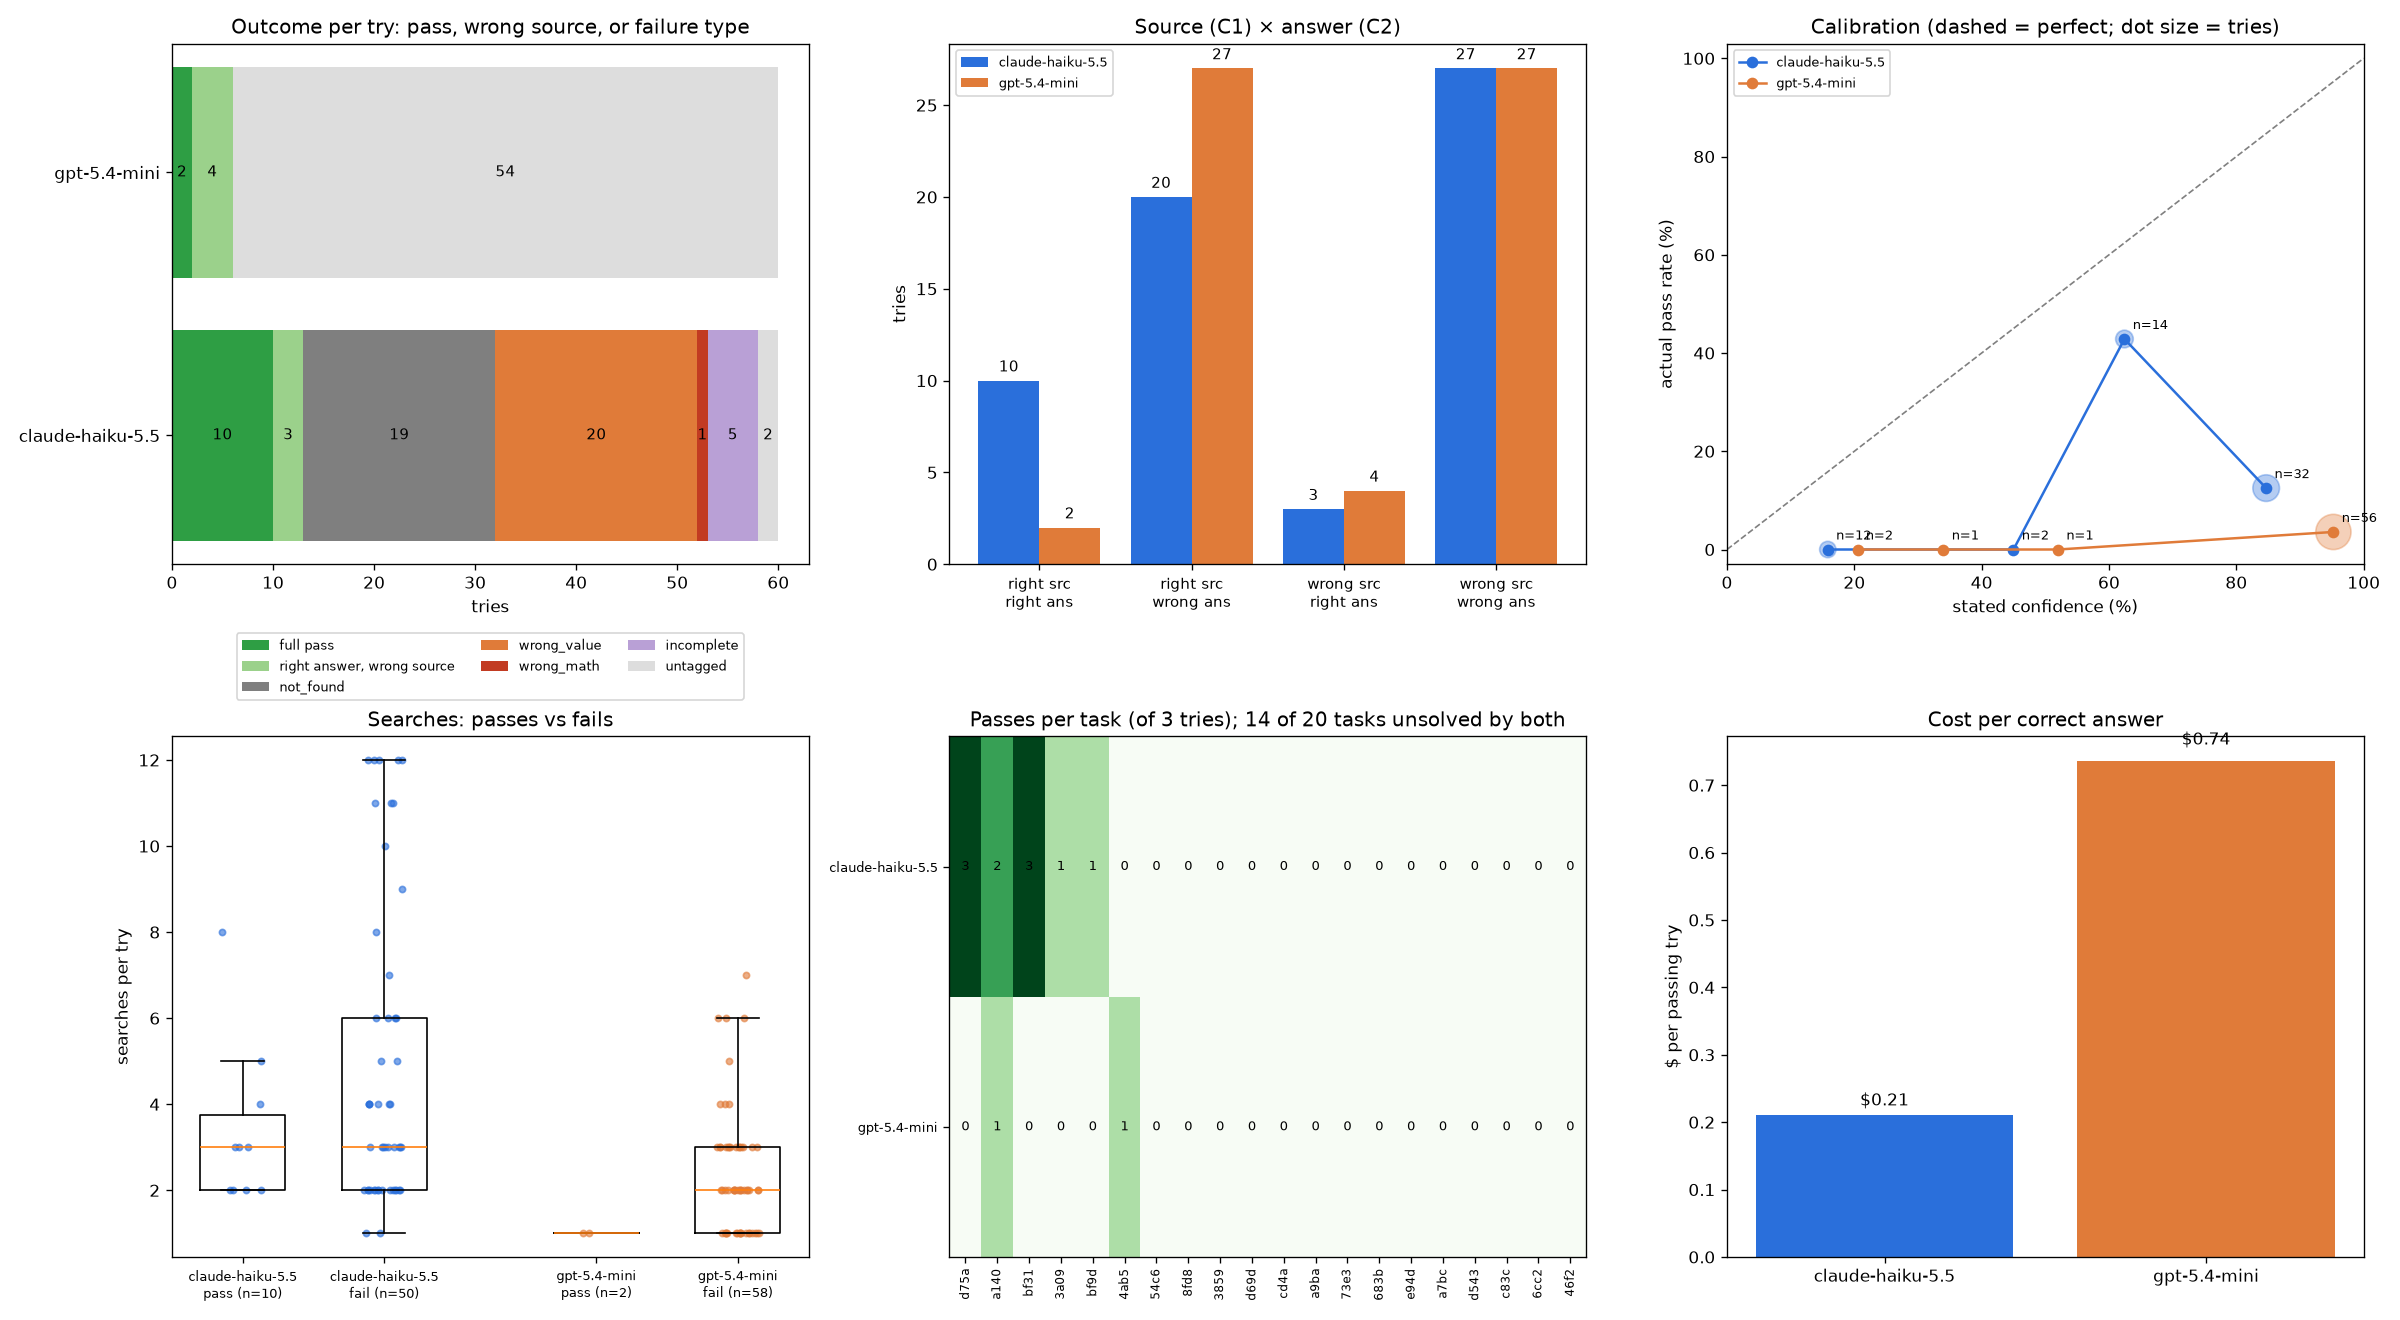
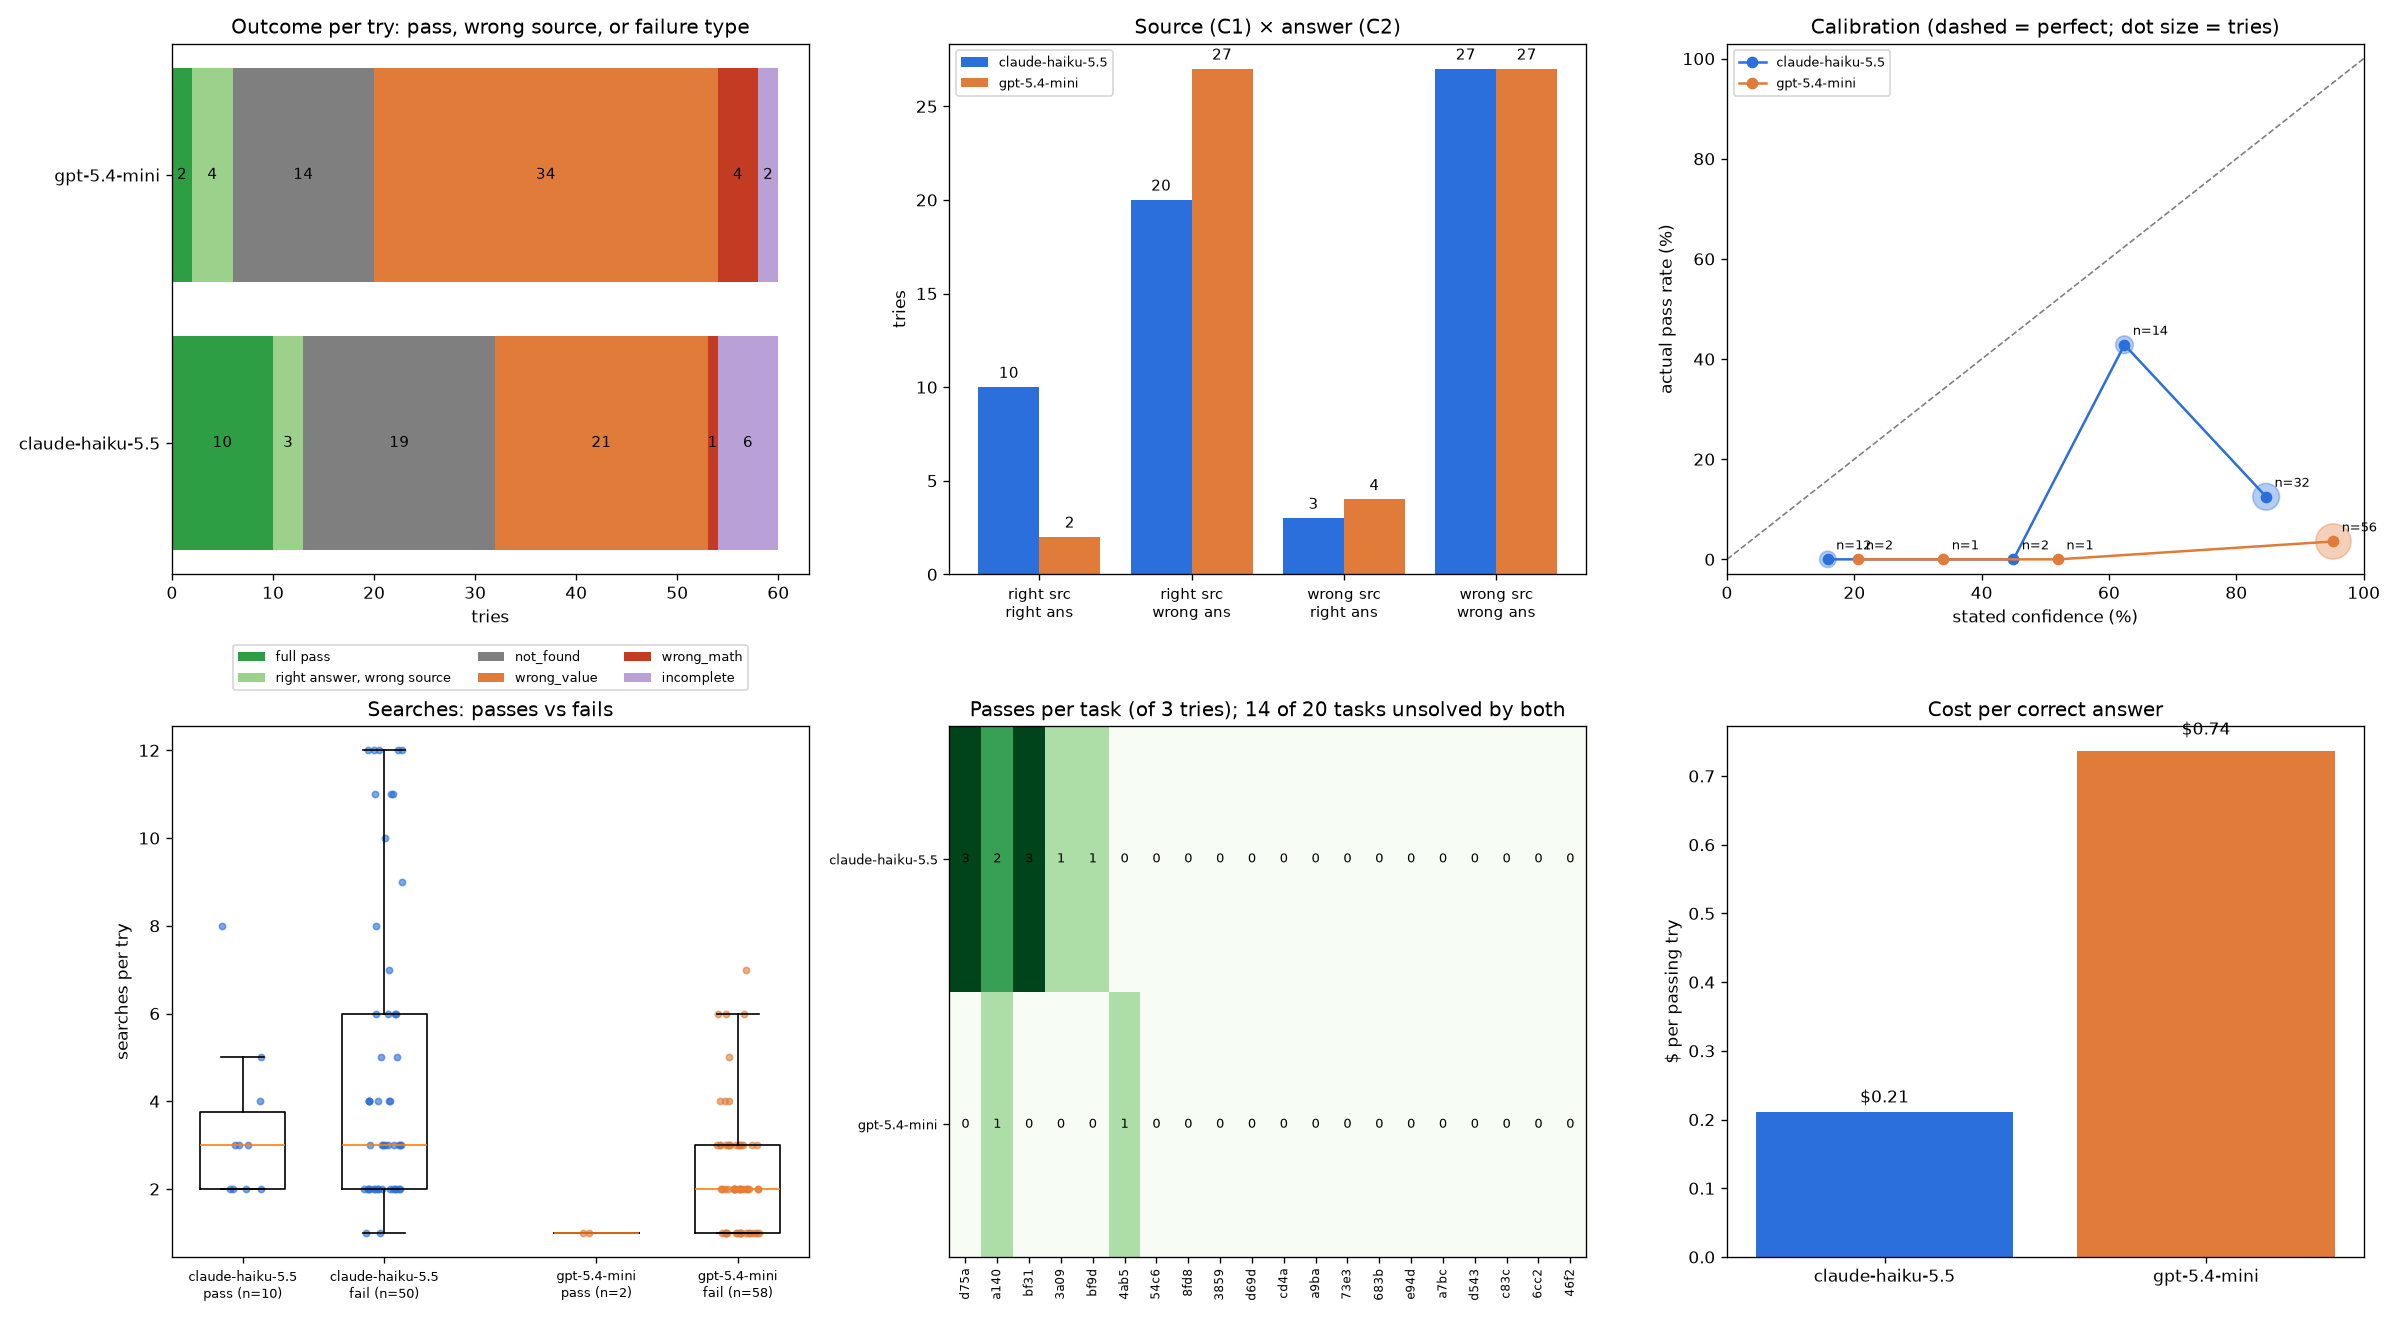
Final analysis with failure-type tags

diff --git a/results/summary.md b/results/summary.md
@@ -159,10 +159,10 @@ Right answer but wrong source: 7 tries. Is the rubric too strict? These fail onl
 
 ## 8b. Failure type (tries, judge 1; wrong answers tagged by an LLM, see failure_tags.jsonl)
 
-| model            | full pass | right answer, wrong source | not_found | wrong_value | wrong_math | incomplete | untagged |
-| ---------------- | --------- | -------------------------- | --------- | ----------- | ---------- | ---------- | -------- |
-| claude-haiku-5.5 | 10 (17%)  | 3 (5%)                     | 19 (32%)  | 20 (33%)    | 1 (2%)     | 5 (8%)     | 2 (3%)   |
-| gpt-5.4-mini     | 2 (3%)    | 4 (7%)                     | 0 (0%)    | 0 (0%)      | 0 (0%)     | 0 (0%)     | 54 (90%) |
+| model            | full pass | right answer, wrong source | not_found | wrong_value | wrong_math | incomplete |
+| ---------------- | --------- | -------------------------- | --------- | ----------- | ---------- | ---------- |
+| claude-haiku-5.5 | 10 (17%)  | 3 (5%)                     | 19 (32%)  | 21 (35%)    | 1 (2%)     | 6 (10%)    |
+| gpt-5.4-mini     | 2 (3%)    | 4 (7%)                     | 14 (23%)  | 34 (57%)    | 4 (7%)     | 2 (3%)     |
 
 not_found = never located the right document; wrong_value = found it, pulled the wrong number/fact; wrong_math = right inputs, wrong calculation; incomplete = refused, hedged or missing parts.
 
@@ -175,7 +175,7 @@ not_found = never located the right document; wrong_value = found it, pulled the
 | gpt-5.4-mini     | pass    | 2     | 1.0           | 1      | 1   | 0%                    |
 | gpt-5.4-mini     | fail    | 58    | 2.4           | 2      | 7   | 0%                    |
 
-Mean searches by failure type: claude-haiku-5.5: incomplete 6.2, not_found 6.9, wrong_math 1.0, wrong_value 3.0.
+Mean searches by failure type: claude-haiku-5.5: incomplete 7.2, not_found 6.9, wrong_math 1.0, wrong_value 2.9; gpt-5.4-mini: incomplete 2.0, not_found 3.2, wrong_math 2.8, wrong_value 2.2.
 
 ## 8d. Tasks no one solved (0 of 6 tries across both models)
 
@@ -187,7 +187,7 @@ Mean searches by failure type: claude-haiku-5.5: incomplete 6.2, not_found 6.9, 
 | d5c83c | TV shows & movies                                     | 25                                       | no               | no               | no                         | gold document never appeared in any search: too hard to find (or URL moved)                       |
 | 8dd543 | Music                                                 | 14th Street and Constitution Avenue, NW  | no               | no               | no                         | gold document never appeared in any search: too hard to find (or URL moved)                       |
 | 03a7bc | Art                                                   | The problem of carrying the weight of a  | no               | no               | no                         | gold document never appeared in any search: too hard to find (or URL moved)                       |
-| 9873e3 | Geography                                             | 20.77 LNM; 30° 29' 22.57" N, 91° 14' 51. | no               | yes              | no                         | gold document never appeared in any search: too hard to find (or URL moved)                       |
+| 9873e3 | Geography                                             | 20.77 LNM; 30° 29' 22.57" N, 91° 14' 51. | no               | yes              | no                         | document was found but no try got the answer: hard extraction/maths, or check the expected answer |
 | ae683b | Science & technology                                  | 80001                                    | no               | no               | no                         | gold document never appeared in any search: too hard to find (or URL moved)                       |
 | 368fd8 | Sports                                                | Buprenorphine, Pseudoephedrine, and Spir | no               | yes              | yes                        | document was found but no try got the answer: hard extraction/maths, or check the expected answer |
 | cca9ba | Other (Business/Regulatory)                           | 149                                      | no               | yes              | yes                        | document was found but no try got the answer: hard extraction/maths, or check the expected answer |
